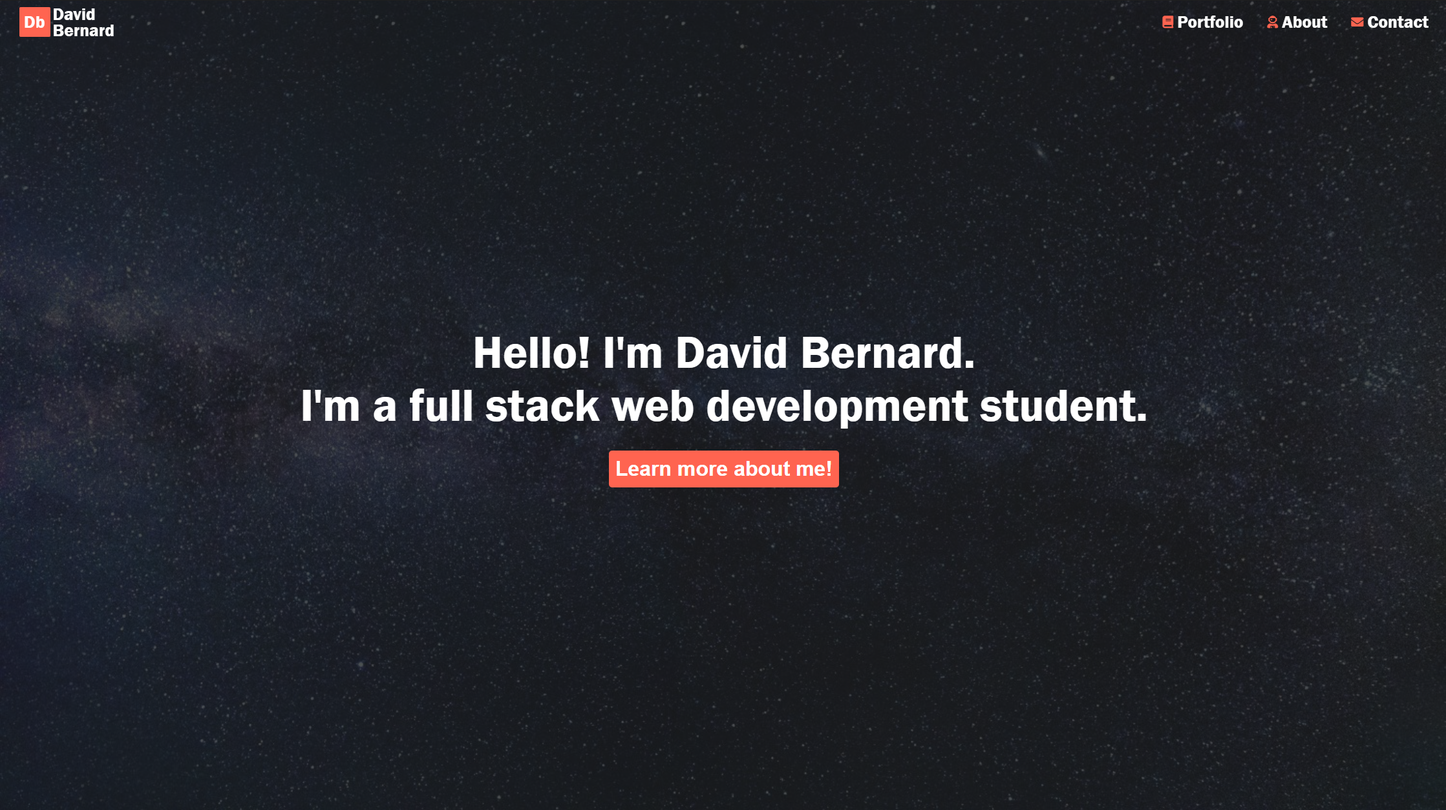
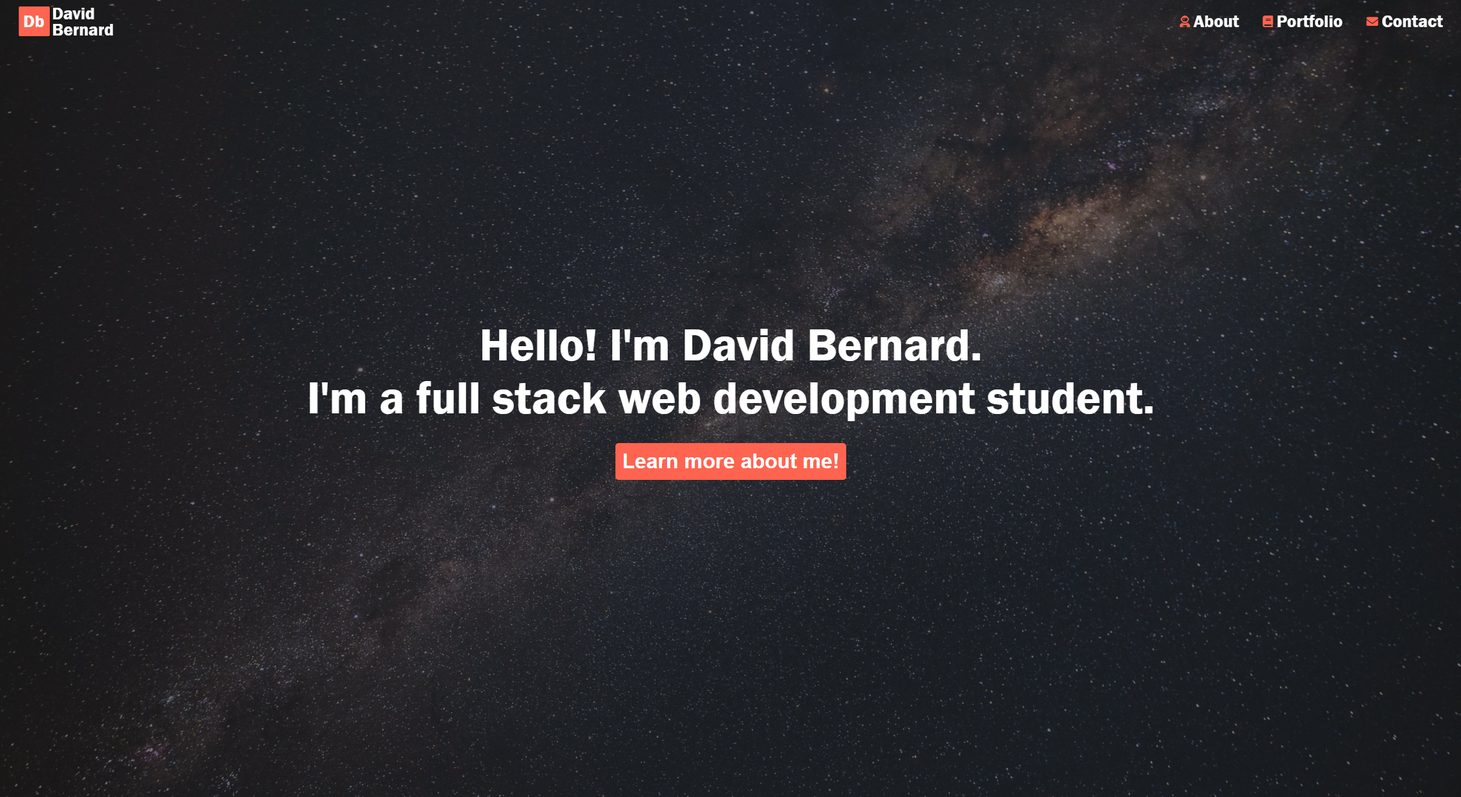
updating background image and readme

diff --git a/assets/css/style.css b/assets/css/style.css
@@ -119,12 +119,12 @@ main {
     width: 100%;
     display: flex;
     align-items: center;
-    background-image: url("https://ploughshares.ca/wp-content/uploads/2019/11/blue-universe-956981-1500x844.jpg");
+    background-image: url("https://images.pexels.com/photos/1169754/pexels-photo-1169754.jpeg?auto=compress&cs=tinysrgb&dpr=3&h=750&w=1260");
     background-position: center;
     background-size: cover;
     background-attachment: fixed;
     background-blend-mode: overlay;
-    background-color: rgba(36, 36, 36, 0.6);
+    background-color: rgba(36, 36, 36, 0);
     color: var(--backgroundOne);
     font-size: 3rem;
     text-align: center;

diff --git a/README.md b/README.md
@@ -27,6 +27,7 @@ To view the website, click the link to the index.html file located in the Github
 
 - David Bernard : [https://github.com/dbernard87]
 - Luke Hass (Scrollify jQuery script) : [https://projects.lukehaas.me/scrollify/#home]
+- Background Photo by Philippe Donn from Pexels [https://www.pexels.com/photo/milky-way-illustration-1169754/]
 - Stack Overflow : [https://stackoverflow.com/]
 - w3schools : [https://www.w3schools.com/]
 
